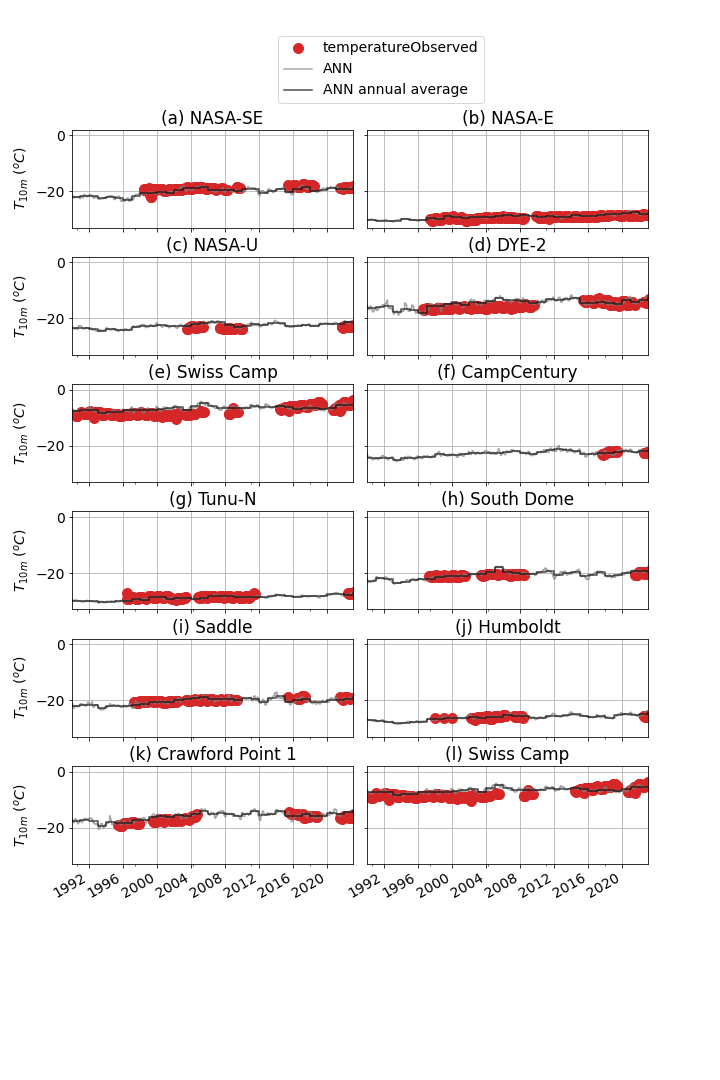
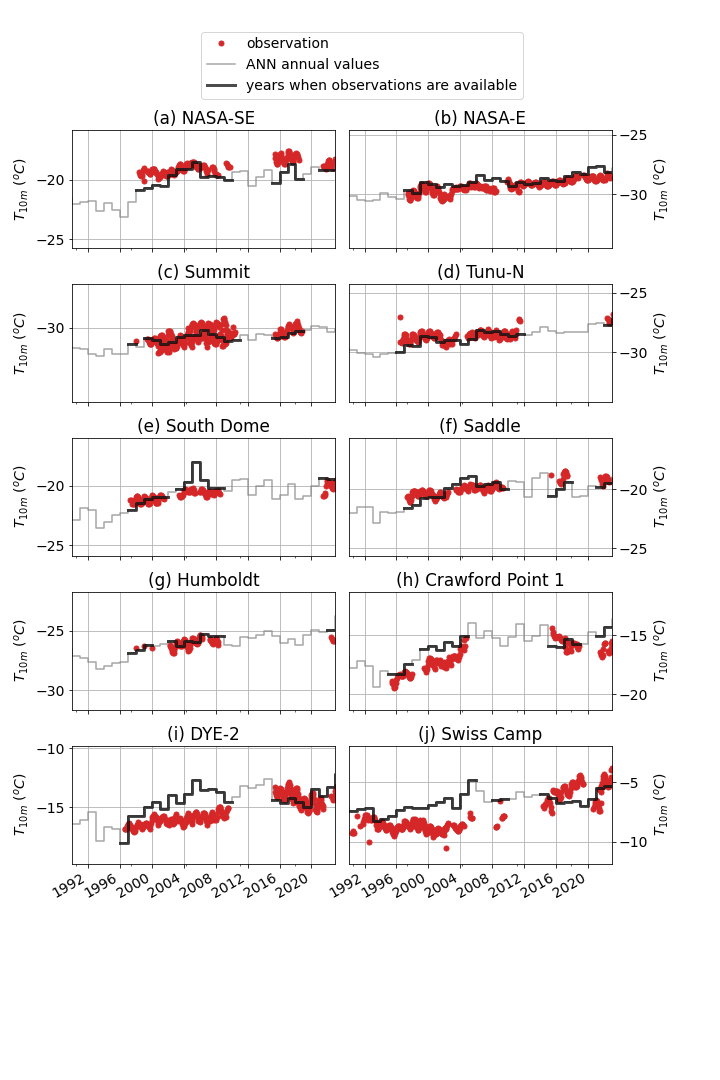
more work on the cluster plots

diff --git a/3_cluster_analysis.py b/3_cluster_analysis.py
@@ -142,7 +142,7 @@ ax2.grid()
 fig.savefig('figures/figure1.tif', dpi=900, bbox_inches='tight')
 # fig.savefig('figures/figure1.pdf')
 
-# %% Studying clusters
+# Studying clusters
 fig, ax = plt.subplots(1, 1, figsize=(6, 9))
 fig.subplots_adjust(hspace=0.0, wspace=0.0, top=1, bottom=0, left=0, right=1)
 land.plot(ax=ax, zorder=0, color="black")
@@ -196,9 +196,7 @@ for k, col in zip(unique_labels, colors):
 
     xy = coords[class_member_mask & core_samples_mask]
     ax.plot(
-        xy[:, 0],
-        xy[:, 1],
-        "o",
+        xy[:, 0], xy[:, 1], "o",
         markerfacecolor=tuple(col),
         markeredgecolor="k",
         markersize=14,
@@ -206,9 +204,7 @@ for k, col in zip(unique_labels, colors):
 
     xy = coords[class_member_mask & ~core_samples_mask]
     ax.plot(
-        xy[:, 0],
-        xy[:, 1],
-        "o",
+        xy[:, 0], xy[:, 1], "o",
         markerfacecolor=tuple(col),
         markeredgecolor="k",
         markersize=6,
@@ -228,21 +224,14 @@ ds_ann = xr.open_dataset("output/T10m_prediction.nc")
 ds_ann["time"] = pd.to_datetime(ds_ann["time"])
 crs_ann = CRS.from_string("EPSG:4326")
 ds_ann = ds_ann.rio.write_crs(crs_ann)
-cluster_coord = gdf.reset_index(drop=True)[['latitude','longitude','clusters']].groupby('clusters').mean()
-cluster_coord['site'] = gdf.reset_index(drop=True)[['site','clusters']].groupby('clusters').site.apply(lambda x: list(np.unique(x)))
-# %% Plotting all clusters
-# fig, ax = plt.subplots(5, 3, figsize=(20, 20))
-# ax = ax.flatten()
-# fig.subplots_adjust(
-#     hspace=0.6, wspace=0.2, top=0.97, bottom=0, left=0.1, right=0.9
-# )
-i = -1
+cluster_coord = gdf.reset_index()[['latitude','longitude','clusters']].groupby('clusters').mean()
+cluster_coord['site'] = gdf.reset_index()[['site','clusters']].groupby('clusters').site.apply(lambda x: list(np.unique(x)))
 
+# %% Plotting all clusters
+
+i = -1
 import matplotlib.cm as cm
 plt.close('all')
-# cmap = cm.get_cmap('tab20', len(ref_all))    # PiYG
-# cmap.set_under('b')
-# cmap.set_over('b')
 handles = list()
 labels = list()
 import matplotlib.dates as mdates
@@ -255,11 +244,7 @@ for cluster_id in unique_labels:
     ref_list = tmp.reference_short.unique()
     print(cluster_id, tmp.site.unique(), np.nanmin(tmp.year), np.nanmax(tmp.year),',', tmp.shape[0])
     if len(ref_list) > 1:
-        # if np.nanmax(tmp.year)-np.nanmin(tmp.year) < 5:
-        #     continue
-        
 
-        # i = i+1
         fig, ax = plt.subplots(1, 1, figsize=(8, 5))
         ax = [ax]
         i = 0
@@ -293,64 +278,91 @@ for cluster_id in unique_labels:
         ax[i].set_ylim(-33, 2)
         ax[i].grid()
 
-    # if i not in [12, 13, 14]:
-    #     ax[i].set_xticklabels('')
-
-# fig.text(0.05, 0.7, "10 m subsurface temperature ($^o$C)", ha='center', va='center', rotation='vertical',fontsize=12)
         fig.savefig("figures/clusters/"+tmp.site.unique()[-1]+".png")
 
+
 # %% Plotting at specific clusters
+from sklearn.linear_model import LinearRegression
+def trend(series_with_nan):
+    start_year = series_with_nan.first_valid_index().year
+    series_dropped_nan = series_with_nan.dropna()
+    
+    # Convert the datetime index to a numeric format (years since start) for the modified series
+    years_since_start_dropped_nan = series_dropped_nan.index.year - start_year
+    
+    # Prepare data for linear regression with NaN values dropped
+    X_dropped_nan = years_since_start_dropped_nan.values.reshape(-1, 1)
+    y_dropped_nan = series_dropped_nan.values
+    
+    # Perform linear regression on the modified data
+    model_dropped_nan = LinearRegression()
+    model_dropped_nan.fit(X_dropped_nan, y_dropped_nan)
+    
+    # The slope of the regression line indicates the trend
+    trend_slope_dropped_nan = model_dropped_nan.coef_[0]
+    trend_slope_dropped_nan
+    return trend_slope_dropped_nan 
+
 abc = 'abcdefghijkl'
 
-fig, ax = plt.subplots(6, 2, figsize=(10, 15), sharex=True, sharey=True)
+fig, ax = plt.subplots(5, 2, figsize=(10, 15), sharex=True, sharey=False)
 ax = ax.flatten()
 fig.subplots_adjust(
-    hspace=0.3, wspace=0.05, top=0.88, bottom=-0.5, left=0.1, right=0.9
+    hspace=0.3, wspace=0.05, top=0.88, bottom=-0.5, left=0.1, right=0.85
 )
-i = -1
 
-# cmap = cm.get_cmap('tab20', len(ref_all))    # PiYG
-# cmap.set_under('b')
-# cmap.set_over('b')
 handles = list()
 labels = list()
 
 sym= 'o d ^ v > < s x *'.split()
-site_list = ['NASA-SE','NASA-E','NASA-U','DYE-2','Swiss Camp','Summit', 'CampCentury', 'Tunu-N', 'South Dome', 'Saddle', 'Humboldt','Crawford Point 1', 'Swiss Camp']
+site_list = ['NASA-SE','NASA-E','Summit_THM', 'Tunu-N', 'South Dome', 'Saddle', 'Humboldt','Crawford Point 1','DYE-2','Swiss Camp']
 
-for site in site_list:
+for i, site in enumerate(site_list):
     cluster_id = cluster_coord.index[cluster_coord.site.apply(lambda x: site in x)][0]
-    if cluster_id == -1:
-        continue
 
-    tmp = gdf.loc[cluster_id]
+    tmp = gdf.loc[cluster_id].sort_index()
     ref_list = tmp.reference_short.unique()
-    print(cluster_id, tmp.site.unique(), np.nanmin(tmp.year), np.nanmax(tmp.year),',', tmp.shape[0])
-    if len(ref_list) > 1:
+    # print(cluster_id, tmp.site.unique(), np.nanmin(tmp.year), np.nanmax(tmp.year),',', tmp.shape[0])
+    tmp.temperatureObserved.plot(
+        ax=ax[i], marker="o",c='tab:red',
+        markersize=5, linestyle="none", label='observation'
+    )
+    df_ANN = ds_ann.T10m.sel(longitude=cluster_coord.loc[cluster_id,'longitude'],
+        latitude=cluster_coord.loc[cluster_id,'latitude'],
+        method="nearest").to_dataframe().resample('Y').mean()
+    df_ANN.T10m.plot(ax=ax[i],label='ANN annual values',
+                     color='gray',drawstyle='steps', alpha=0.7)
+    df_ANN_site = df_ANN.T10m.copy()  #.resample("Y").mean()
 
-        i = i+1
+    msk = np.isin(df_ANN_site.index.year, tmp.index.year)
+    df_ANN_site.loc[~msk] = np.nan
+    df_ANN_site.plot(ax=ax[i],color='k', 
+     label='years when observations are available',
+                     drawstyle='steps', alpha=0.7, lw=3)  
+    try:
+        print('%s, %0.2f, %0.2f, %0.2f, %0.2f'%(site.replace('_THM',''),
+              trend(df_ANN_site.loc['1998':'2010']),
+              trend(tmp.temperatureObserved.loc['1998':'2010']),
+                    trend(df_ANN_site.loc['1998':'2022']),
+                    trend(tmp.temperatureObserved.loc['1998':'2022'])))
+    except:
+        print('%s, nan, nan, %0.2f, %0.2f'%(site.replace('_THM',''),
+                    trend(df_ANN_site.loc['1998':'2022']),
+                    trend(tmp.temperatureObserved.loc['1998':'2022'])))
+        pass
+    
+        
+    ax[i].set_ylabel("$T_{10m}$ ($^oC$)")
+    ax[i].set_xlabel("")
+    ax[i].set_title('('+abc[i]+') '+site.replace('_THM',''))
+    if i == 0: ax[i].legend(loc='lower center',bbox_to_anchor=(1.1,1.2))
+    ax[i].set_yticks(np.arange(-30,0,5))
+    ax[i].set_ylim(df_ANN.T10m.resample("Y").mean().mean()-5,
+                   df_ANN.T10m.resample("Y").mean().mean()+5)
+    if i%2==1:
+        ax[i].yaxis.set_label_position("right")
+        ax[i].yaxis.tick_right()
+    ax[i].set_xlim('1990', '2023')
+    ax[i].grid()
 
-        tmp.temperatureObserved.plot(
-            ax=ax[i], marker="o",c='tab:red',
-            markersize=10, linestyle="none", #label=ref
-        )
-        df_ANN = ds_ann.T10m.sel(longitude=cluster_coord.loc[cluster_id,'longitude'],
-            latitude=cluster_coord.loc[cluster_id,'latitude'],
-            method="nearest").to_dataframe()
-        df_ANN.T10m.plot(ax=ax[i],label='ANN',
-                         color='gray',drawstyle='steps', alpha=0.7)
-        df_ANN.T10m.resample("Y").mean().plot(ax=ax[i],color='k',
-                                              label='ANN annual average',
-                                              drawstyle='steps', alpha=0.7)
-                          
-
-            
-        ax[i].set_ylabel("$T_{10m}$ ($^oC$)")
-        ax[i].set_xlabel("")
-        ax[i].set_title('('+abc[i]+') '+site)
-        if i == 0: ax[i].legend(loc='lower center',bbox_to_anchor=(1.1,1.2))
-        ax[i].set_ylim(-33, 2)
-        ax[i].set_xlim('1990', '2023')
-        ax[i].grid()
-
-        fig.savefig("figures/clusters/selected.png")
+fig.savefig("figures/clusters/selected.png")

diff --git a/8_ANN_w_ERA5.py b/8_ANN_w_ERA5.py
@@ -498,19 +498,19 @@ best_model, best_PredictorScalerFit, best_TargetVarScalerFit = train_ANN(
     df, Predictors, num_nodes = 64, num_layers=2, epochs=150, batch_size=4000)
 
 # %% SHAP analysis
-import shap
-from sklearn.model_selection import train_test_split
-X_train, X_test, y_train, y_test = train_test_split(df[Predictors].values, 
-                                                    df['temperatureObserved'].values,
-                                                    test_size=0.3, random_state=42)
-explainer = shap.KernelExplainer(best_model.predict,X_train)
+# import shap
+# from sklearn.model_selection import train_test_split
+# X_train, X_test, y_train, y_test = train_test_split(df[Predictors].values, 
+#                                                     df['temperatureObserved'].values,
+#                                                     test_size=0.3, random_state=42)
+# explainer = shap.KernelExplainer(best_model.predict,X_train)
 
-shap_values = explainer.shap_values(X_test,nsamples=100)
-shap.summary_plot(shap_values,X_test,feature_names=Predictors)
-#%%
-shap.initjs()
-shap.force_plot(explainer.expected_value, shap_values[0,:] ,
-                X_test[0,:],feature_names=Predictors)
+# shap_values = explainer.shap_values(X_test,nsamples=100)
+# shap.summary_plot(shap_values,X_test,feature_names=Predictors)
+
+# shap.initjs()
+# shap.force_plot(explainer.expected_value, shap_values[0,:] ,
+#                 X_test[0,:],feature_names=Predictors)
 # %% Predicting T10m over ERA5 dataset
 predict = 0
 
@@ -644,8 +644,8 @@ for k, site in enumerate(["CP1","DYE-2", "Summit","Camp Century",
 
 
 # %% Preparing for figure 3
-
 # averaging and reprojecting uncertainty map
+
 ice = gpd.GeoDataFrame.from_file("Data/misc/IcePolygon_3413.shp")
 ice = ice.to_crs("EPSG:4326")
 ds_era = ds_era.rio.write_crs("EPSG:4326").rio.clip(ice.geometry.values, ice.crs)
@@ -691,12 +691,13 @@ df = extract_T10m_values(
     ds_T10m.to_dataset(), df, dim1="longitude", dim2="latitude", name_out="T10m_ANN"
 )
 # calculating directly from the dataset
-df.loc[df.T10m_ANN.isnull(), 'T10m_ANN'] = ANN_predict(df.loc[df.T10m_ANN.isnull(), Predictors],
-                                                       best_model, 
-                                                       best_PredictorScalerFit, 
-                                                       best_TargetVarScalerFit)
+# df.loc[df.T10m_ANN.isnull(), 'T10m_ANN'] = ANN_predict(
+#     df.loc[df.T10m_ANN.isnull(), Predictors],
+#     best_model, 
+#     best_PredictorScalerFit, 
+#     best_TargetVarScalerFit)
 
-# % Plotting Figure 2
+# % Plotting Figure 3
 df_10m = df.loc[df.depthOfTemperatureObservation.astype(float) == 10, :]
 
 # plt.close('all')
@@ -805,9 +806,7 @@ ax_map.text(0.1, 0.9, '(c)',
  transform = ax_map.transAxes)
 ax_map.set_xlim(-700000, 900000)
 ax_map.set_ylim(-3400000, -574000)
-# pos1 = ax_map.get_position()
-# pos2 = [pos1.x0, pos1.y0 + 0.1,  pos1.width, pos1.height] 
-# ax_map.set_position(pos2)
+
 import matplotlib.patheffects as pe
 
 # =============== site examples =======================
@@ -840,15 +839,19 @@ for k, site in enumerate(["NASA-E", "DYE-2", "KAN_L", 'KPC_U',"FA_13"]):
                          longitude=df_select.longitude.unique()[0]),
                     method='nearest').to_dataframe().T10m_std
 
-    best_model_pred = ANN_predict(df_select[Predictors], 
-                                  best_model, 
-                                  best_PredictorScalerFit, 
-                                  best_TargetVarScalerFit)
+    # best_model_pred = ANN_predict(df_select[Predictors], 
+    #                               best_model, 
+    #                               best_PredictorScalerFit, 
+    #                               best_TargetVarScalerFit)
+                                
+    df_interp = ds_T10m.interp(longitude=df_site.longitude.item(), 
+                          latitude=df_site.latitude.item(), method="linear").to_dataframe()['T10m']
+
+        
+    ax[k].step(df_interp.index, df_interp, color="tab:blue", where='post', label="ANN")
     
-    ax[k].step(df_select.index, best_model_pred, color="tab:blue", where='post', label="ANN")
-    
-    ax[k].fill_between(df_select.index, best_model_pred - cv_std, 
-        best_model_pred + cv_std, color="turquoise", step='post',
+    ax[k].fill_between(df_interp.index, df_interp - cv_std, 
+        df_interp + cv_std, color="turquoise", step='post',
         label="ANN uncertainty", zorder=0)
     
     for i in range(zwally.shape[0]):

diff --git a/1_data_processing.py b/1_data_processing.py
@@ -391,6 +391,10 @@ df_GCN["method"] = "thermocouple"
 df_GCN["durationOpen"] = 0
 df_GCN["durationMeasured"] = 30 * 24
 df_GCN["error"] = 0.5
+msk = ((df_GCN.site=='NASA-SE') 
+       & (df_GCN.date>'1999-01-10')
+       & (df_GCN.date<'1999-05-10'))
+df_GCN.loc[msk, 'temperatureObserved' ] = np.nan
 df_all = pd.concat((df_all, df_GCN[needed_cols]), ignore_index=True)
 
 # %% Steffen 2001 table (that could not be found in the GC-Net AWS data)
